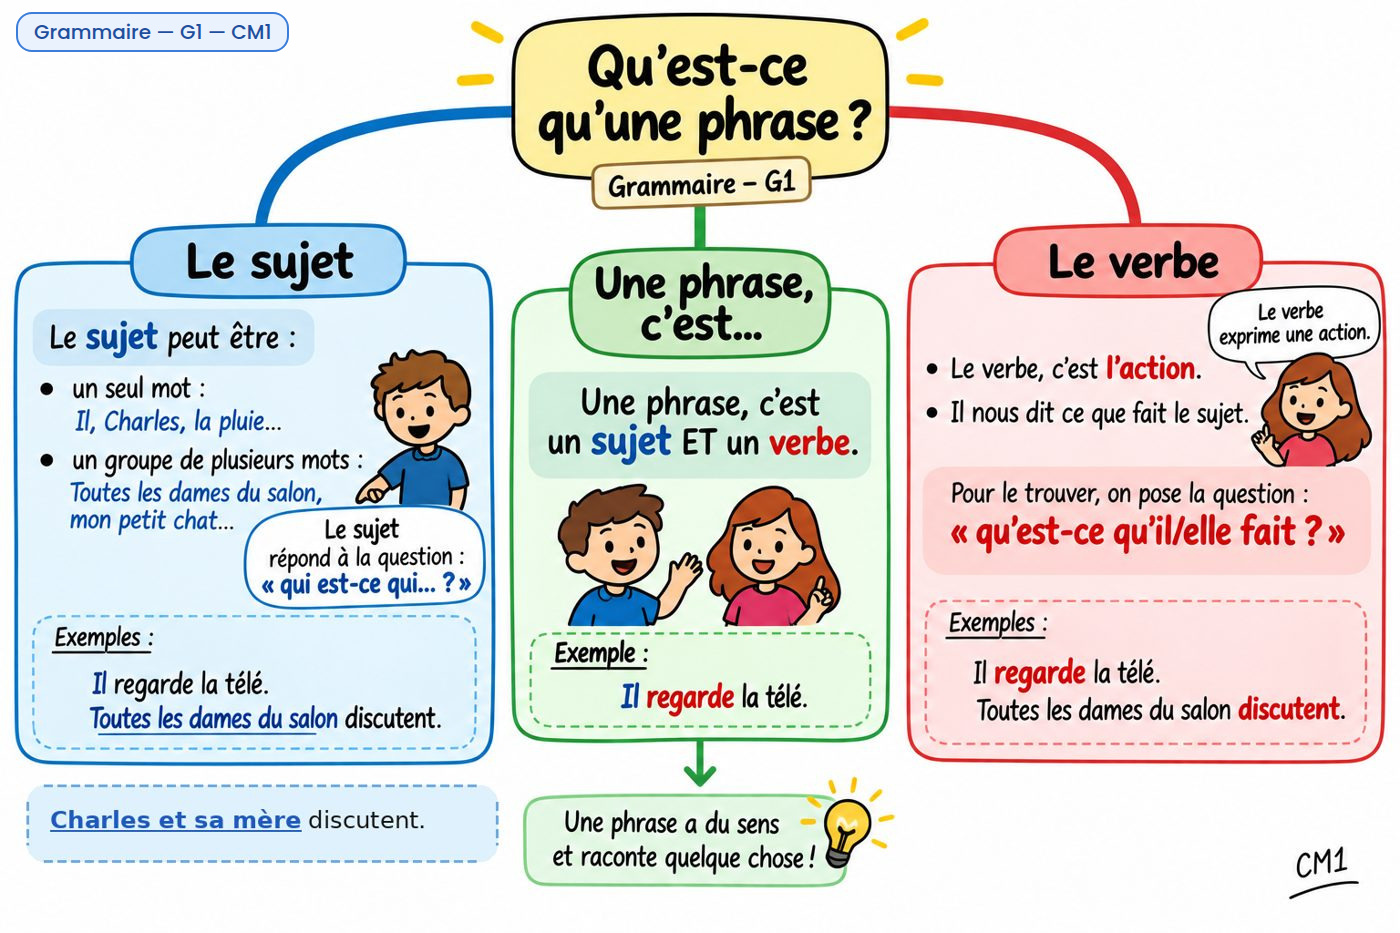
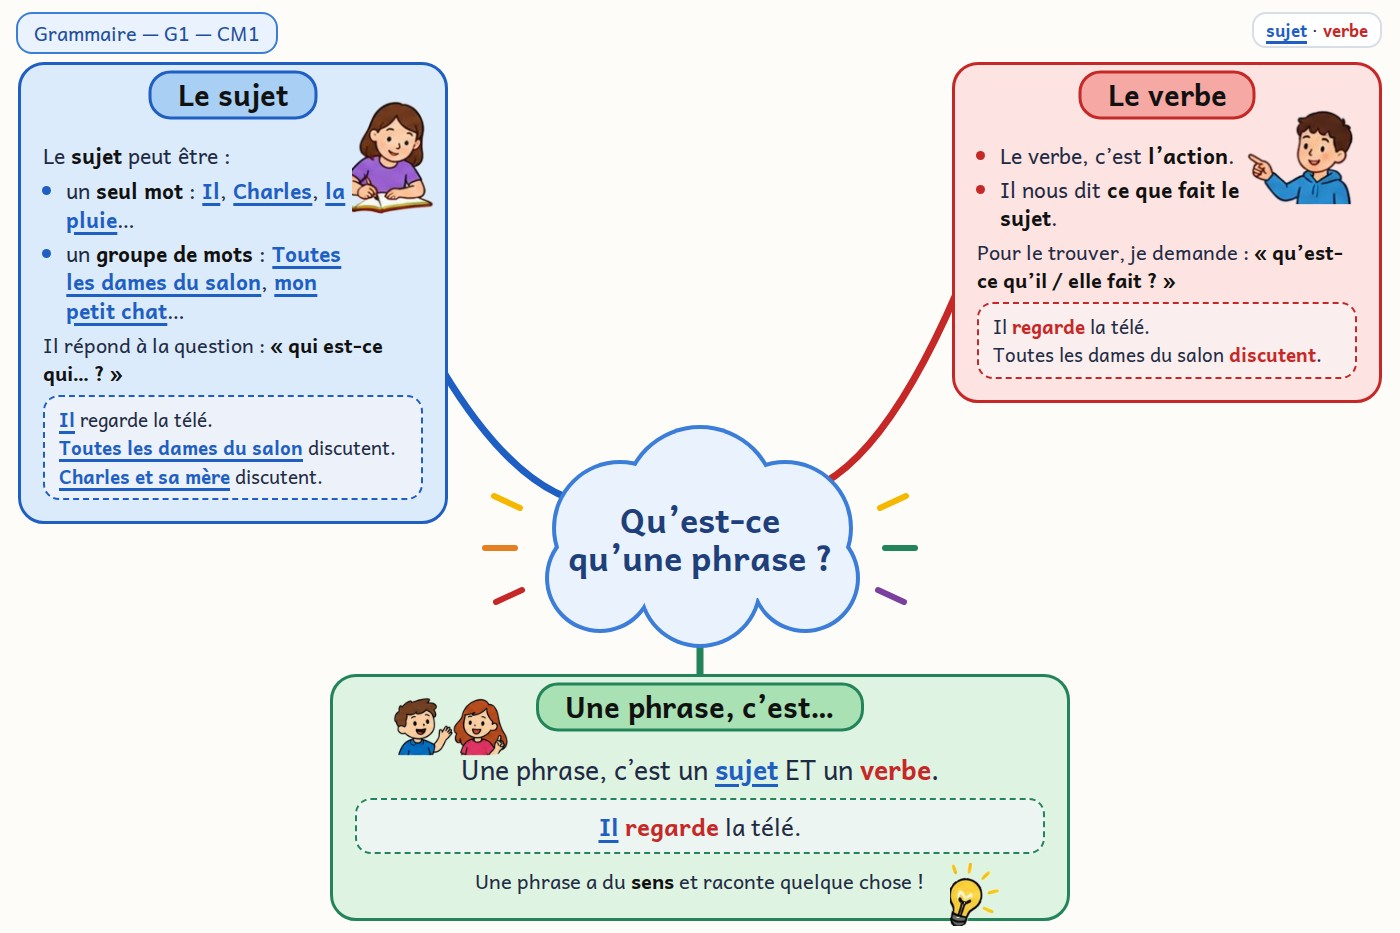
Carte de G1 refaite dans le même style que les autres cartes (sujet, verbe, une phrase c'est…) ; zones ajustées

diff --git a/index.html b/index.html
@@ -639,9 +639,9 @@ const PICTO={
    Dans [ ] : [#…] = un seul wagon, [~…] = s'efface. Dans À toi : <cible à cliquer> */
 const LESSONS={
 G1:{sections:[
-  {id:'phrase',nom:'Une phrase, c’est…',couleur:'#23845a',zone:[36.4,27.5,27.4,69]},
-  {id:'verbe',nom:'Le verbe',couleur:'#c62828',zone:[64.8,27.5,34.4,55.5]},
-  {id:'sujet',nom:'Le sujet',couleur:'#1f5fc4',zone:[1,24,34.6,69.5]}],
+  {id:'phrase',nom:'Une phrase, c’est…',couleur:'#23845a',zone:[23.6, 72.2, 52.9, 26.5]},
+  {id:'verbe',nom:'Le verbe',couleur:'#c62828',zone:[68.0, 6.6, 30.7, 36.5]},
+  {id:'sujet',nom:'Le sujet',couleur:'#1f5fc4',zone:[1.3, 6.6, 30.7, 49.5]}],
  ecrans:[
   {sec:'phrase',picto:'sv',titre:'Un sujet + un verbe',guide:'duo',bulle:'Une phrase a du sens et raconte quelque chose !',
    steps:[{p:'Il regarde la télé.'},{p:'[Il] regarde la télé.',c:'Qui ? → le sujet'},{p:'[Il] (regarde) la télé.',c:'Il fait quoi ? → le verbe'},{p:'{{télé il la regarde}}',c:'Des mots mélangés : ce n’est pas une phrase.'}],

diff --git a/outils/lecons/g_cartes.py b/outils/lecons/g_cartes.py
@@ -9,7 +9,7 @@ sys.path.insert(0, os.path.join(D, '..'))
 from mapgen import build, CY
 from g2_cartes import PALG, police, mesurer, mettre_dans_le_site
 
-SCRIPTS = {**{f'O{k}': 'o1_a_o6.py' for k in range(1, 7)}, 'O7-CE2': 'o7_o12.py', **{f'O{k}': 'o7_o12.py' for k in range(8, 13)}, 'G4': 'g4.py', 'G5': 'g5.py', 'G6': 'g6.py', 'G6-CE2': 'g6_ce2.py', 'G7': 'g7.py', **{f'H{k}': f'h{k}.py' for k in range(2, 8)}, **{f'V{k}': f'v{k}.py' for k in range(3, 7)}, **{f'C{k}': f'c{k}.py' for k in range(1, 6)}, 'C6': 'ce2_seulement.py', 'C6-CE2': 'ce2_seulement.py', 'C7': 'ce2_seulement.py', 'C7-CE2': 'ce2_seulement.py', 'C8-CM2': 'c8_c9_cm2.py', 'C9-CM2': 'c8_c9_cm2.py'}
+SCRIPTS = {'G1': 'g1_carte.py', **{f'O{k}': 'o1_a_o6.py' for k in range(1, 7)}, 'O7-CE2': 'o7_o12.py', **{f'O{k}': 'o7_o12.py' for k in range(8, 13)}, 'G4': 'g4.py', 'G5': 'g5.py', 'G6': 'g6.py', 'G6-CE2': 'g6_ce2.py', 'G7': 'g7.py', **{f'H{k}': f'h{k}.py' for k in range(2, 8)}, **{f'V{k}': f'v{k}.py' for k in range(3, 7)}, **{f'C{k}': f'c{k}.py' for k in range(1, 6)}, 'C6': 'ce2_seulement.py', 'C6-CE2': 'ce2_seulement.py', 'C7': 'ce2_seulement.py', 'C7-CE2': 'ce2_seulement.py', 'C8-CM2': 'c8_c9_cm2.py', 'C9-CM2': 'c8_c9_cm2.py'}
 PAL_DE = {'indigo': ('#5e35b1', '#ece6fa', '#cdbff0', '#5e35b1'), 'marron': ('#8d5524', '#f6e9dc', '#e5c9a8', '#8d5524')}
 MARGE = 24
 ZMAX = {'C2': 1.0, 'C8-CM2': 1.1, 'C3': 1.1}   # cartes dont un tableau déborderait du cadre si le texte était plus grand
@@ -120,7 +120,7 @@ def auto1(lid, a, kw, boxes, silencieux=False):
     for b in bas:
         l, t, w, h = b['geom']; geo[b['id']] = (l, Tb + 24, w, Hb[b['id']] - 24)
     centre = [b for b in haut if b['geom'][0] < 840 and b['geom'][0] + b['geom'][2] > 560]
-    Bi = max(geo[b['id']][1] + geo[b['id']][3] for b in centre)
+    Bi = max(geo[b['id']][1] + geo[b['id']][3] for b in centre) if centre else min(geo[b['id']][1] + geo[b['id']][3] for b in haut)
     cdy = round((Bi + Tb) / 2 - 431)
     carte(lid, a, kw, boxes, geo, cdy)
     zones = {k: [round(l / 14, 1), round((t - 24) / 9.33, 1), round(w / 14, 1), round((t + h - (t - 24)) / 9.33, 1)] for k, (l, t, w, h) in geo.items()}
@@ -136,5 +136,10 @@ if __name__ == '__main__':
     # zones : une leçon qui a son bloc dans index.html les reçoit directement ; une carte par niveau (G6-CE2…) va dans ZONES_NIV
     site = open(os.path.join(D, '..', '..', 'index.html')).read()
     for lid, z in Z.items():
+        if lid == 'G1':   # leçon écrite en JS (pas en JSON) : zones remplacées une à une
+            import re
+            t = open(os.path.join(D, '..', '..', 'index.html')).read()
+            for k, v in z.items(): t = re.sub(r"(\{id:'%s',[^}]*?zone:)\[[^\]]*\]" % k, lambda m: m.group(1) + str(v), t, count=1)
+            open(os.path.join(D, '..', '..', 'index.html'), 'w').write(t); continue
         if ('\n%s:{"sections"' % lid) in site or ('\n"%s":{"sections"' % lid) in site: mettre_dans_le_site({lid: z}, lid)
         else: mettre_dans_le_site({lid.split('-')[0]: {}, lid: z}, lid.split('-')[0])

diff --git a/outils/lecons/g1_carte.py b/outils/lecons/g1_carte.py
@@ -1,0 +1,23 @@
+"""Carte de G1 (Qu'est-ce qu'une phrase ?) refaite avec les mêmes outils que G2 à G7 (14/11/2026) : trois cadres autour du nuage (le sujet, le verbe, et « une phrase, c'est… » en bas).
+Mêmes zones (sujet, verbe, phrase) que l'ancienne image. Usage : python3 lecons/g_cartes.py G1   (ce fichier ne fait que décrire la carte)."""
+import os, sys
+sys.path.insert(0, os.path.join(os.path.dirname(os.path.abspath(__file__)), '..'))
+from mapgen import build, TL, TC, TR
+
+S, V = '<span class="s">{}</span>', '<span class="v">{}</span>'
+EX = lambda s, fs=21: f'<div class="ex" style="font-size:{fs}px;line-height:1.5;margin-top:8px">{s}</div>'
+BAS = (330, 568, 740, 350)
+boxes = [
+ dict(id='sujet', col='bleu', geom=TL, title='Le sujet', html='''<p class="txt" style="padding-right:110px;margin-top:-6px">Le <b>sujet</b> peut être :</p>
+  <ul style="font-size:20px;line-height:1.35;margin-top:0;padding-right:66px"><li>un <b>seul mot</b> : <span class="s">Il</span>, <span class="s">Charles</span>, <span class="s">la pluie</span>…</li>
+  <li>un <b>groupe de mots</b> : <span class="s">Toutes les dames du salon</span>, <span class="s">mon petit chat</span>…</li></ul>
+  <p class="txt" style="font-size:19px;margin:6px 0 0">Il répond à la question : <b>« qui est-ce qui… ? »</b></p>''' + EX(f'{S.format("Il")} regarde la télé.<br>{S.format("Toutes les dames du salon")} discutent.<br>{S.format("Charles et sa mère")} discutent.', 19),
+      figs=[('girl', 352, 98, 84)]),
+ dict(id='verbe', col='rouge', geom=TR, title='Le verbe', html='''<ul style="font-size:20px;line-height:1.35;padding-right:100px;margin-top:-6px"><li>Le verbe, c’est <b>l’action</b>.</li><li>Il nous dit <b>ce que fait le sujet</b>.</li></ul>
+  <p class="txt" style="font-size:19px;margin:6px 0 0">Pour le trouver, je demande : <b>« qu’est-ce qu’il / elle fait ? »</b></p>''' + EX(f'Il {V.format("regarde")} la télé.<br>Toutes les dames du salon {V.format("discutent")}.', 19),
+      figs=[('boy', 1244, 106, 112)]),
+ dict(id='phrase', col='vert', geom=BAS, title='Une phrase, c’est…', style='padding-top:50px', html='''<p class="txt" style="font-size:25px;text-align:center;margin:0">Une phrase, c’est un <span class="s">sujet</span> ET un <span class="v">verbe</span>.</p>''' + EX(f'{S.format("Il")} {V.format("regarde")} la télé.', 24).replace('margin-top:8px', 'margin-top:10px;text-align:center') + '''<p class="small" style="text-align:center;margin:10px 0 0;font-size:19px">Une phrase a du <b>sens</b> et raconte quelque chose !</p>''',
+      figs=[('duo', 392, 566, 120), ('ampoule', 950, 733, 50)]),
+]
+legend = f'{S.format("sujet")} · {V.format("verbe")}'
+out, zones = build('G1', 'Qu’est-ce<br>qu’une phrase ?', 'Grammaire — G1 — CM1', legend, boxes, title_size=34)

diff --git a/CLAUDE.md b/CLAUDE.md
@@ -57,8 +57,8 @@ Site des leçons interactives (ceintures de français CM1) publié avec GitHub P
 - Barre du bas d’un écran de leçon (13/11/2026) : seulement « ◀ Retour » et « Suivant ▶ » (plus de « Rubrique … » ni de titres d’écrans) ; le retour à la rubrique / à la carte passe par le bouton « Carte de la leçon » en haut.
 - Pages de rubrique et écrans de G2 (13/11/2026) : même langage visuel que la carte (bloc CSS `.lecon-G2` en fin de feuille : titres en pastille à texte noir, cadres teintés à bordure épaisse, exemples en pointillés, dessins détourés `images/g2-fille.png` / `g2-garcon.png` à la place des médaillons ronds). La classe `lecon-<code>` est posée sur toutes les pages de leçon : étendre aux autres leçons en copiant ce bloc.
 - G3 refait comme G2 (13/11/2026) : `python3 outils/lecons/g3_cartes.py` fabrique les 3 cartes (CM1, CE2, CM2) avec le même style (couleurs soutenues, Andika, cadres ajustés, nuage centré sur le cadre du nom noyau, zones écrites dans `index.html` / `ZONES_NIV`) ; le bloc CSS `:is(.lecon-G2,.lecon-G3)` donne le même style aux pages de la leçon. Pour passer une autre leçon (G1, G4…) au même style : écrire son `*_cartes.py` sur ce modèle (`auto`, `mesurer`, `PALG`, `police`, `mettre_dans_le_site(zones, id)` de g2_cartes.py), ajouter son code dans `:is(...)`, ses avatars `images/g2-fille.png` / `g2-garcon.png` dans `IMG`, et `cumul` aux écrans d’exemples côte à côte.
-- G1, G4, G5, G6, G7 au même style (14/11/2026) : `python3 outils/lecons/g_cartes.py [G4 G5 G6 G6-CE2 G7]` refait les cartes depuis les cadres de `g4.py`, `g5.py`… (lus SANS exécuter `save` : les leçons de `index.html` ne sont pas touchées, seules les zones le sont), ajuste les cadres au contenu, réduit les titres qui passeraient sous la pastille du numéro et copie la carte dans `images/`. Retouches propres à une carte : `RETOUCHES` dans ce script. La carte de G1 est l'image d'origine (le modèle du style) : pas de script. Pages de la leçon : le CSS vise `[class*="lecon-G"]` (G1 à G7), les avatars de `IMG` sont `g2-fille.png` / `g2-garcon.png`, `cumul` posé sur les écrans d'exemples côte à côte (listés avant `save` dans g4.py… ; G1 directement dans `index.html`). Écrans G (G1 à G7) : pas de barre « Suivant » ; « Retour » est à gauche de la rangée du bouton d'étape, la progression au centre (regex `/^G\d/` dans `renderScreen`).
-- H1 à H7 au même style (14/11/2026) : `python3 outils/lecons/g_cartes.py H2 … H7` (long : le texte est agrandi jusqu'à ×1,5 tant que le nuage garde 205 px, `ZOOM`/`ECART_MIN`) ; H1 garde son image d'origine. CSS `[class*="lecon-H"]`, regex `/^[GH]\d/`, avatars `g2-*.png`, `cumul` sur les écrans d'exemples (listés avant `save` dans h2.py… ; H1 dans `index.html`).
+- G1, G4, G5, G6, G7 au même style (14/11/2026) : `python3 outils/lecons/g_cartes.py [G4 G5 G6 G6-CE2 G7]` refait les cartes depuis les cadres de `g4.py`, `g5.py`… (lus SANS exécuter `save` : les leçons de `index.html` ne sont pas touchées, seules les zones le sont), ajuste les cadres au contenu, réduit les titres qui passeraient sous la pastille du numéro et copie la carte dans `images/`. Retouches propres à une carte : `RETOUCHES` dans ce script. La carte de G1 est refaite aussi (`g1_carte.py` : 3 cadres, le sujet / le verbe en haut, « Une phrase, c'est… » en bas ; `python3 outils/lecons/g_cartes.py G1`). Pages de la leçon : le CSS vise `[class*="lecon-G"]` (G1 à G7), les avatars de `IMG` sont `g2-fille.png` / `g2-garcon.png`, `cumul` posé sur les écrans d'exemples côte à côte (listés avant `save` dans g4.py… ; G1 directement dans `index.html`). Écrans G (G1 à G7) : pas de barre « Suivant » ; « Retour » est à gauche de la rangée du bouton d'étape, la progression au centre (regex `/^G\d/` dans `renderScreen`).
+- H1 à H7 au même style (14/11/2026) : `python3 outils/lecons/g_cartes.py H2 … H7` (long : le texte est agrandi jusqu'à ×1,5 tant que le nuage garde 205 px, `ZOOM`/`ECART_MIN`) ; H1 garde son image d'origine (dessinée à la main, comme l'était G1). CSS `[class*="lecon-H"]`, regex `/^[GH]\d/`, avatars `g2-*.png`, `cumul` sur les écrans d'exemples (listés avant `save` dans h2.py… ; H1 dans `index.html`).
 - V1 à V6 au même style (14/11/2026) : `python3 outils/lecons/g_cartes.py V3 V4 V5 V6` (même zoom automatique que H ; V1 et V2 gardent leur image d'origine) ; CSS `[class*="lecon-V"]`, regex `/^[GHV]\d/`, `cumul` sur les écrans d'exemples.
 - C1 à C9 au même style (14/11/2026) : `python3 outils/lecons/g_cartes.py C1 … C5 C6 C6-CE2 C7 C7-CE2 C8-CM2 C9-CM2` (long : ~1 min par carte ; `lire(fichier, id)` ignore les `build`/`save` des autres cartes d'un script à plusieurs cartes ; `ZMAX` plafonne le zoom des cartes à tableau large). `cumul` des écrans C : ensemble `CUMUL_C` (par titre) dans `index.html`, appliqué à tous les niveaux. CSS `[class*="lecon-C"]`, regex `/^[GHVC]\d/`.
 - O1 à O12 au même style (14/11/2026) : `python3 outils/lecons/g_cartes.py O1 … O6 O7-CE2 O8 … O12` (les scripts `o1_a_o6.py` / `o7_o12.py` appellent `build` dans une fonction : `lire` les rejoue avec un faux `build`, sans rien écrire). Cumul : tous les écrans O sauf « Je prouve » / « Je vérifie » (JS, après `CUMUL_C`). CSS : toujours `:is([class*="lecon-G"],…,[class*="lecon-O"])` pour un sélecteur descendant (jamais la liste sans `:is`, elle ne s'applique alors qu'au dernier) ; regex `/^[GHVCO]\d/`.
